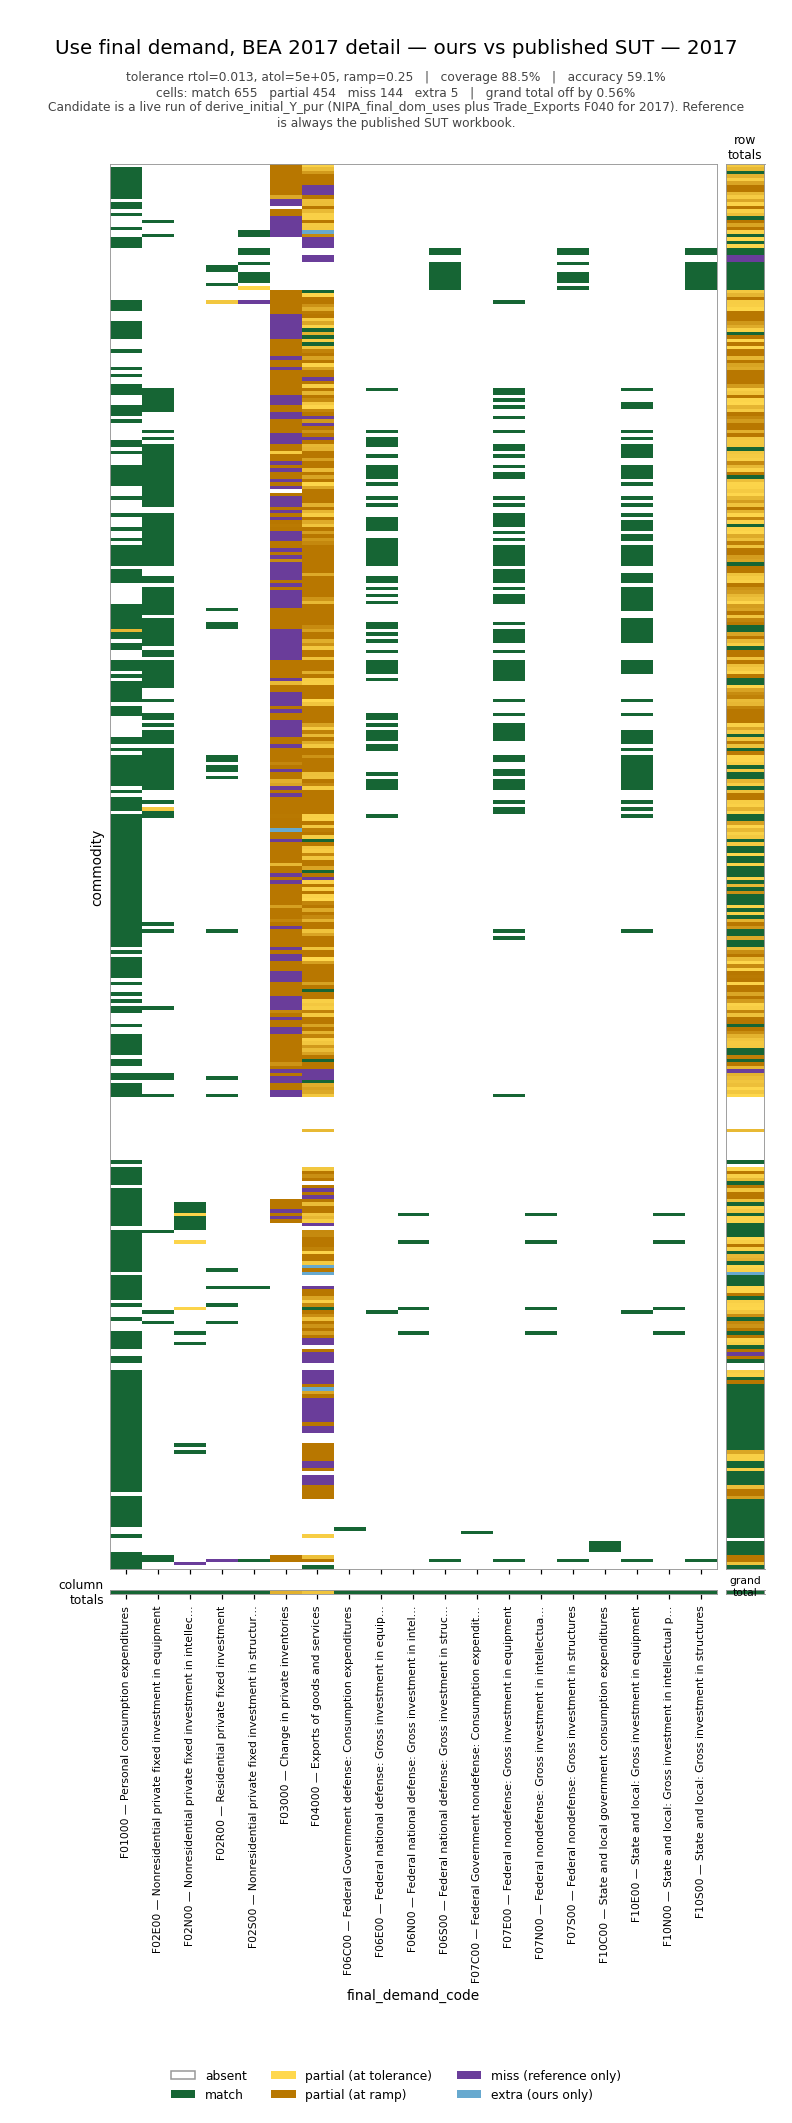
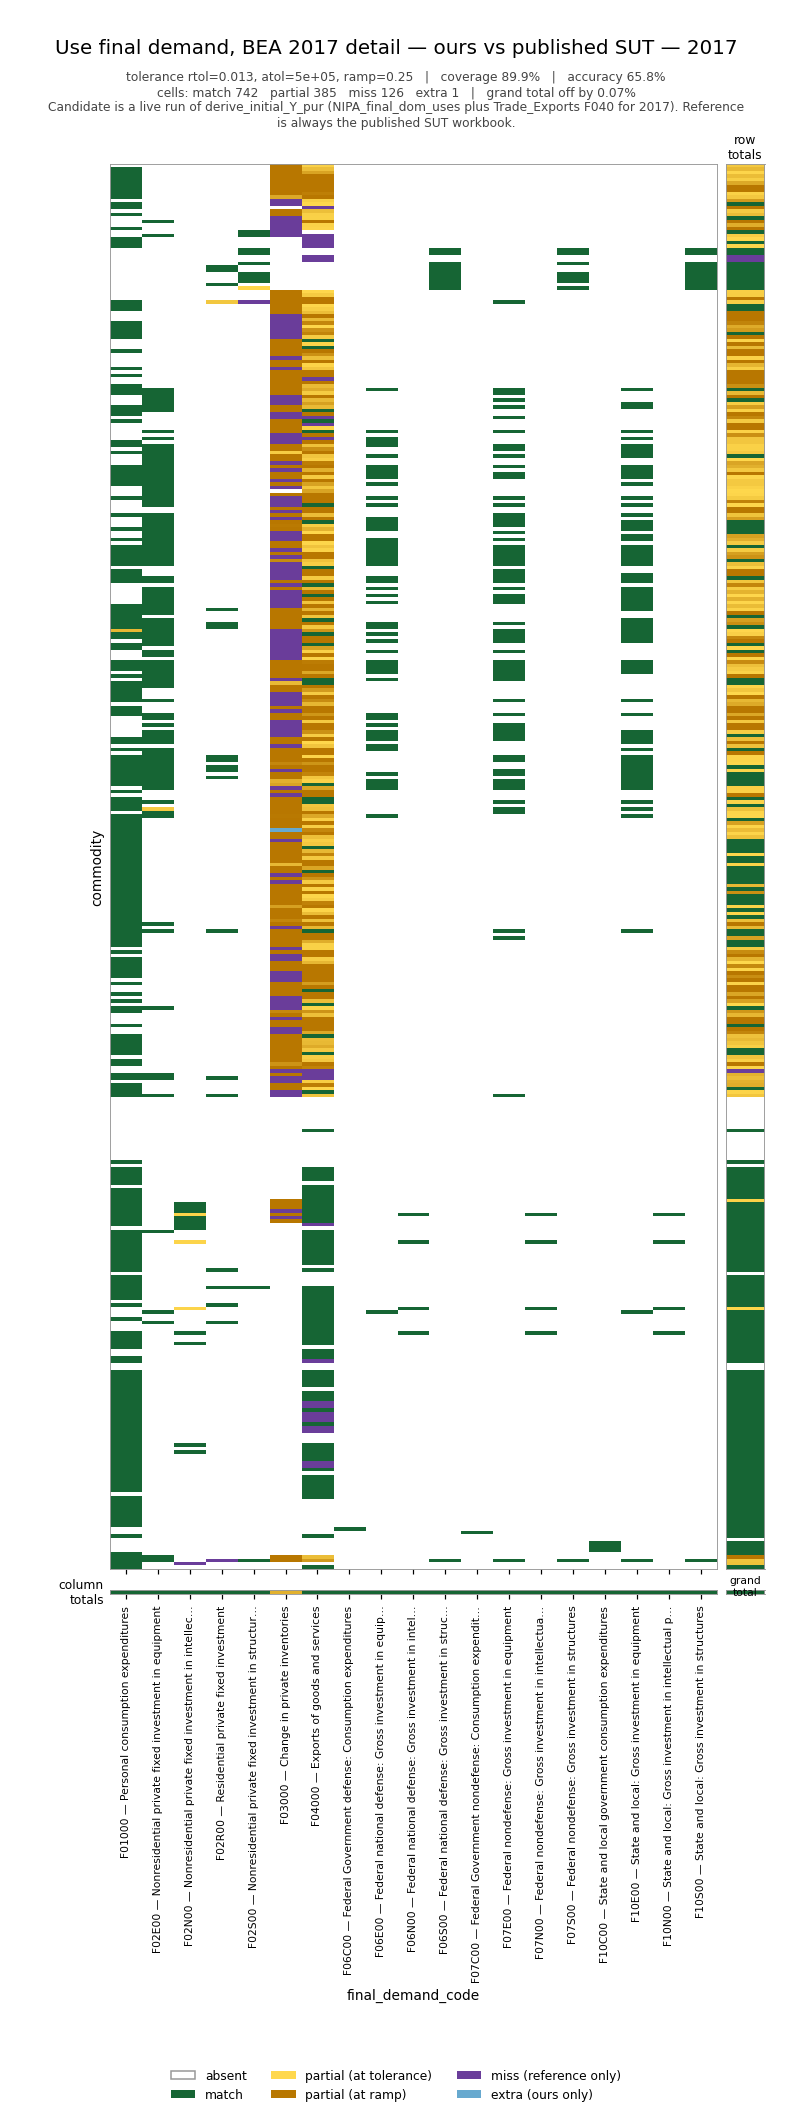
fix(trade): mirror the services fix onto imports, and let the unmasking speak (#771)
Service imports carried the same defects as exports minus one: the within-set
weights were already the published mix, but the category sets still forced
money onto rows BEA barely uses and omitted rows outright - 32.8% gross error
on the services imports column. The export bridge machinery is generalized to
both directions (one writer, one core clean function, two committed CSVs);
each service commodity's imports are now its published 2017 value moved by
its fitted category-growth blend. 2017: 87,780 -> 271 \$M gross (32.8% ->
0.1%), zero omitted rows. Noncomparable imports (S00300) stay with their
#766 construction - the bridge never emits S-coded rows.

With both trade vectors anchor-true, the supply-equals-use gap ROSE - 2018
8.6 -> 10.1%, 2023 20.4 -> 21.6% - and that is the finding, not a defect:
the old constructions' errors partially cancelled interior-row errors, and
correcting one side of a two-sided identity surfaces the other side's own
gap. Baseline advanced with that explanation; the interior fit is the
instrument that absorbs it. The supply-bridge diagnostic improves where this
work actually lives: accuracy 74.3 -> 76.1%, grand total off 0.52 -> 0.18%.

Both diagnostic figures regenerated at report DPI (supply bridge and final
demand). GCS uploads of the rebuilt import FBS are pending a fresh
ADC login (token expired mid-upload); artifacts are local and named in the
PR for re-upload after scripts/google-login.

diff --git a/bedrock/transform/trade/utilities.py b/bedrock/transform/trade/utilities.py
@@ -182,11 +182,39 @@ if __name__ == '__main__':
 #: The fitted 2017 bridge (#771): which IEA categories move each export row,
 #: written by ``bedrock.utils.mapping.write_iea_export_bridge``.
 IEA_EXPORT_BRIDGE_CSV = 'bedrock/analysis/nowcasting/trade_data/iea_export_bridge.csv'
+IEA_IMPORT_BRIDGE_CSV = 'bedrock/analysis/nowcasting/trade_data/iea_import_bridge.csv'
 
 #: The IEA extract for the anchor year, used for the growth denominators.
 IEA_EXPORTS_2017_CSV = (
     'bedrock/extract/input_data/BEA_IEA/2017/BEA_IEA_2017_Exports.csv'
 )
+
+IEA_IMPORTS_2017_CSV = (
+    'bedrock/extract/input_data/BEA_IEA/2017/BEA_IEA_2017_Imports.csv'
+)
+
+
+def bridge_iea_service_imports(fba: FlowByActivity, **_: Any) -> FlowByActivity:
+    """The imports mirror of :func:`bridge_iea_service_exports` (#771).
+
+    Same anchor-and-move: each service commodity's imports are its published
+    2017 Supply-table imports value times a growth blend of the IEA import
+    categories the fitted bridge feeds it from.  The prior construction
+    already weighted within-set by published imports, but the sets carried
+    the same defects as the export side - the repair category forced onto
+    rows BEA barely uses, orphaned rows omitted outright - measured at 32.8%
+    gross on the services imports column.  Noncomparable imports (S00300)
+    stay with their #766 construction; the bridge never touches S-coded
+    rows.
+    """
+    return _bridge_iea_services(
+        fba,
+        flow='Imports',
+        bridge_csv=IEA_IMPORT_BRIDGE_CSV,
+        base_csv=IEA_IMPORTS_2017_CSV,
+        anchor_table='Supply_detail',
+        anchor_column='MCIF',
+    )
 
 
 def bridge_iea_service_exports(fba: FlowByActivity, **_: Any) -> FlowByActivity:
@@ -211,6 +239,24 @@ def bridge_iea_service_exports(fba: FlowByActivity, **_: Any) -> FlowByActivity:
     traveler spending) and the used/scrap rows are deliberately absent — the
     first is re-derived after the balance, the second two have no IEA source.
     """
+    return _bridge_iea_services(
+        fba,
+        flow='Exports',
+        bridge_csv=IEA_EXPORT_BRIDGE_CSV,
+        base_csv=IEA_EXPORTS_2017_CSV,
+        anchor_table='Use_SUT_detail',
+        anchor_column='F04000',
+    )
+
+
+def _bridge_iea_services(
+    fba: FlowByActivity,
+    flow: str,
+    bridge_csv: str,
+    base_csv: str,
+    anchor_table: str,
+    anchor_column: str,
+) -> FlowByActivity:
     import numpy as np  # noqa: PLC0415
 
     if fba.empty:
@@ -219,11 +265,11 @@ def bridge_iea_service_exports(fba: FlowByActivity, **_: Any) -> FlowByActivity:
         int(fba['Year'].iloc[0]) if 'Year' in fba.columns else int(fba.config['year'])
     )
 
-    bridge = pd.read_csv(IEA_EXPORT_BRIDGE_CSV, dtype={'commodity': str})
-    base_raw = pd.read_csv(IEA_EXPORTS_2017_CSV)
+    bridge = pd.read_csv(bridge_csv, dtype={'commodity': str})
+    base_raw = pd.read_csv(base_csv)
     base = (
         base_raw[
-            (base_raw['TradeDirection'] == 'Exports')
+            (base_raw['TradeDirection'] == flow)
             & (base_raw['Affiliation'] == 'AllAffiliations')
             & (base_raw['AreaOrCountry'] == 'AllCountries')
         ]
@@ -232,7 +278,7 @@ def bridge_iea_service_exports(fba: FlowByActivity, **_: Any) -> FlowByActivity:
     )
 
     frame = pd.DataFrame(fba)
-    exports = frame[frame['FlowName'].astype(str) == 'Exports']
+    exports = frame[frame['FlowName'].astype(str) == flow]
     now = (
         exports.groupby(exports['ActivityProducedBy'].astype(str))['FlowAmount']
         .sum()
@@ -247,9 +293,9 @@ def bridge_iea_service_exports(fba: FlowByActivity, **_: Any) -> FlowByActivity:
         _load_2017_detail_supply_use_usa,
     )
 
-    use = _load_2017_detail_supply_use_usa('Use_SUT_detail')
-    use.columns = use.columns.str.strip()
-    published = pd.to_numeric(use['F04000'], errors='coerce').fillna(0.0)
+    anchor = _load_2017_detail_supply_use_usa(anchor_table)  # type: ignore[arg-type]
+    anchor.columns = anchor.columns.str.strip()
+    published = pd.to_numeric(anchor[anchor_column], errors='coerce').fillna(0.0)
 
     bridge['g'] = bridge['category'].map(growth)
     # a category unpublished in year t contributes its 2017 weight at growth 1
@@ -266,7 +312,7 @@ def bridge_iea_service_exports(fba: FlowByActivity, **_: Any) -> FlowByActivity:
         if amount <= 0:
             continue
         row = template.copy()
-        row['FlowName'] = 'Exports'
+        row['FlowName'] = flow
         row['FlowAmount'] = float(amount)
         row['Unit'] = 'USD'
         row['Class'] = 'Money'
@@ -274,7 +320,8 @@ def bridge_iea_service_exports(fba: FlowByActivity, **_: Any) -> FlowByActivity:
         row['ActivityProducedBy'] = commodity
         row['ActivityConsumedBy'] = None
         row['Description'] = (
-            'published 2017 F04000 x IEA category growth blend (#771 bridge)'
+            f'published 2017 {anchor_column} x IEA category growth blend '
+            f'(#771 bridge, {flow})'
         )
         rows.append(row)
     out = pd.concat(rows, ignore_index=True)

diff --git a/bedrock/utils/mapping/write_iea_export_bridge.py b/bedrock/utils/mapping/write_iea_export_bridge.py
@@ -36,35 +36,55 @@ import pandas as pd
 
 from bedrock.extract.iot.io_2017 import _load_2017_detail_supply_use_usa
 
-OUTPUT = Path('bedrock/analysis/nowcasting/trade_data/iea_export_bridge.csv')
-CROSSWALK = Path(
-    'bedrock/utils/mapping/activitytosectormapping/Sector_Crosswalk_BEA_IEA_exports.csv'
-)
-IEA_2017 = Path('bedrock/extract/input_data/BEA_IEA/2017/BEA_IEA_2017_Exports.csv')
+#: Per direction: (bridge csv, crosswalk, IEA 2017 extract, anchor column,
+#: anchor table).  Exports anchor on the Use table's export column; imports
+#: on the Supply table's imports column.  The S-coded rows (rest-of-world
+#: adjustment, noncomparable imports, used/scrap) are excluded by the
+#: service-row filter in :func:`build` — #766 owns noncomparable imports.
+DIRECTIONS: dict[str, tuple[str, str, str, str, str]] = {
+    'Exports': (
+        'bedrock/analysis/nowcasting/trade_data/iea_export_bridge.csv',
+        'bedrock/utils/mapping/activitytosectormapping/'
+        'Sector_Crosswalk_BEA_IEA_exports.csv',
+        'bedrock/extract/input_data/BEA_IEA/2017/BEA_IEA_2017_Exports.csv',
+        'F04000',
+        'Use_SUT_detail',
+    ),
+    'Imports': (
+        'bedrock/analysis/nowcasting/trade_data/iea_import_bridge.csv',
+        'bedrock/utils/mapping/activitytosectormapping/'
+        'Sector_Crosswalk_BEA_IEA_imports.csv',
+        'bedrock/extract/input_data/BEA_IEA/2017/BEA_IEA_2017_Imports.csv',
+        'MCIF',
+        'Supply_detail',
+    ),
+}
 
 #: RAS sweeps.  The support is ~45 x 90 and converges in tens of sweeps; the
 #: cap is generous because the margins are inconsistent and never fully close.
 SWEEPS = 500
 
 
-def category_totals_2017() -> pd.Series:
-    frame = pd.read_csv(IEA_2017)
+def category_totals_2017(direction: str = 'Exports') -> pd.Series:
+    frame = pd.read_csv(DIRECTIONS[direction][2])
     frame = frame[
-        (frame['TradeDirection'] == 'Exports')
+        (frame['TradeDirection'] == direction)
         & (frame['Affiliation'] == 'AllAffiliations')
         & (frame['AreaOrCountry'] == 'AllCountries')
     ]
     return frame.set_index('TypeOfService')['DataValue'].astype(float)
 
 
-def build() -> pd.DataFrame:
-    crosswalk = pd.read_csv(CROSSWALK, dtype=str)
-    totals = category_totals_2017()
+def build(direction: str = 'Exports') -> pd.DataFrame:
+    _, crosswalk_path, _, anchor_column, anchor_table = DIRECTIONS[direction]
+    crosswalk = pd.read_csv(crosswalk_path, dtype=str)
+    totals = category_totals_2017(direction)
     categories = sorted(set(crosswalk['Activity']) & set(totals.index))
 
-    use = _load_2017_detail_supply_use_usa('Use_SUT_detail')
-    use.columns = use.columns.str.strip()
-    published = pd.to_numeric(use['F04000'], errors='coerce').fillna(0.0)
+    table = _load_2017_detail_supply_use_usa(anchor_table)  # type: ignore[arg-type]
+    table.columns = table.columns.str.strip()
+    published = pd.to_numeric(table[anchor_column], errors='coerce').fillna(0.0)
+    published = published[[c for c in published.index if str(c)[0] in '45678']]
 
     support = {
         category: sorted(crosswalk.loc[crosswalk['Activity'] == category, 'Sector'])
@@ -101,15 +121,17 @@ def build() -> pd.DataFrame:
 
 
 def main() -> int:
-    table = build()
-    OUTPUT.parent.mkdir(parents=True, exist_ok=True)
-    table.to_csv(OUTPUT, index=False, float_format='%.6f')
-    check = table.groupby('commodity')['share'].sum()
-    print(
-        f'wrote {len(table)} coefficients for {check.size} commodities to '
-        f'{OUTPUT}; worst share-sum deviation from 1: '
-        f'{float((check - 1).abs().max()):.2e}'
-    )
+    for direction, (output, *_rest) in DIRECTIONS.items():
+        table = build(direction)
+        out = Path(output)
+        out.parent.mkdir(parents=True, exist_ok=True)
+        table.to_csv(out, index=False, float_format='%.6f')
+        check = table.groupby('commodity')['share'].sum()
+        print(
+            f'{direction}: {len(table)} coefficients for {check.size} '
+            f'commodities -> {out}; worst share-sum deviation from 1: '
+            f'{float((check - 1).abs().max()):.2e}'
+        )
     return 0
 
 

diff --git a/bedrock/analysis/nowcasting/control_residuals.py b/bedrock/analysis/nowcasting/control_residuals.py
@@ -160,6 +160,13 @@ VA_ROWS = ('V00100', 'T00OTOP', 'V00300', 'T00TOP', 'T00SUB')
 #: substantive counts before the fix were 2-12 per year; the guard in
 #: ``nowcast_trade_margins.check_giveup_solvency`` now fails the build itself
 #: on anything beyond dust, so this baseline is a backstop, not the instrument.
+#: ⚠ 2018 and 2023 rose (8.6 -> 10.1, 20.4 -> 21.6) when the services trade
+#: vectors were anchored on the published 2017 mixes (#771 and its imports
+#: mirror).  That is an unmasking, not a regression: the old constructions'
+#: errors partially cancelled interior-row errors, and correcting one side of
+#: a two-sided identity surfaces the other side's own gap.  The interior fit
+#: is the instrument that absorbs it.
+#:
 #: ``t11_pct`` — the supply-equals-use gap per commodity as a percent of total
 #: intermediate use — joined the baseline 2026-08-30, the first time the whole
 #: span was measurable on one tree (the 2018-19 interiors, the published-level
@@ -171,12 +178,12 @@ VA_ROWS = ('V00100', 'T00OTOP', 'V00300', 'T00TOP', 'T00SUB')
 #: target went 15.9% -> 1.4% and 8-12 infeasible commodities -> 0.
 BASELINE: dict[int, dict[str, float]] = {
     2017: {'t17_pct': 1.4, 'insolvent': 2, 't11_pct': 4.9},
-    2018: {'t17_pct': 1.3, 'insolvent': 1, 't11_pct': 8.6},
+    2018: {'t17_pct': 1.3, 'insolvent': 1, 't11_pct': 10.1},
     2019: {'t17_pct': 1.9, 'insolvent': 1, 't11_pct': 11.6},
     2020: {'t17_pct': 5.5, 'insolvent': 1, 't11_pct': 19.3},
     2021: {'t17_pct': 5.7, 'insolvent': 0, 't11_pct': 18.1},
     2022: {'t17_pct': 6.7, 'insolvent': 1, 't11_pct': 20.0},
-    2023: {'t17_pct': 1.4, 'insolvent': 0, 't11_pct': 20.4},
+    2023: {'t17_pct': 1.4, 'insolvent': 0, 't11_pct': 21.6},
 }
 
 #: Slack on the recorded percentages, in percentage points.  Rebuilding an FBA
